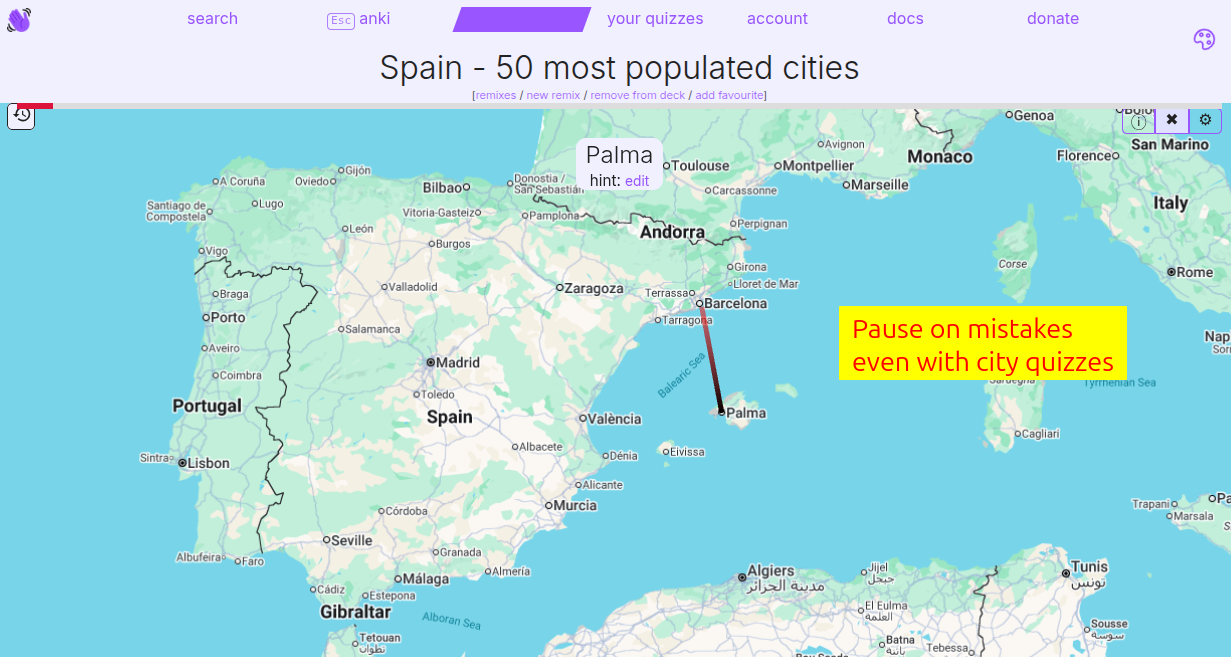
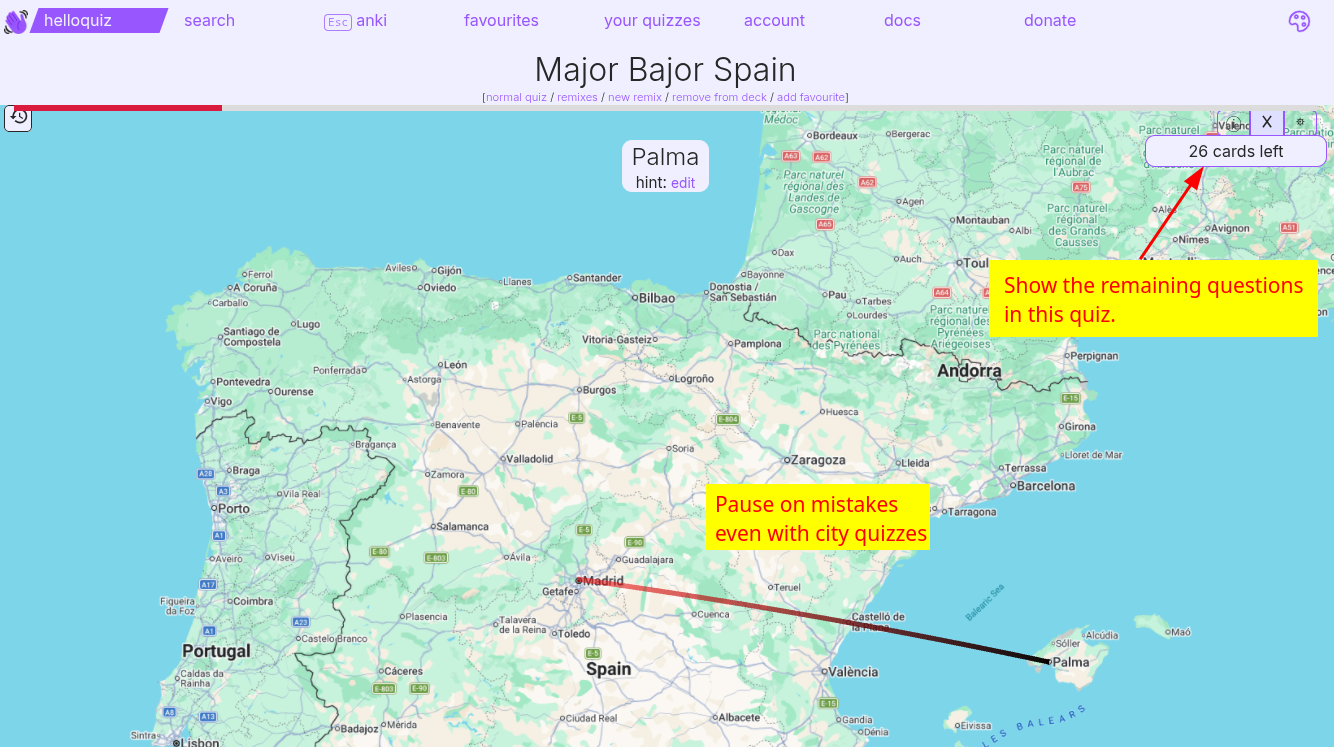
readme: combine screenshots

diff --git a/README.md b/README.md
@@ -40,21 +40,13 @@ The countdown bar across the top, and the *Anki Turbo Config* options in the qui
 
 ![The countdown timer bar and the Anki Turbo Config settings](screenshots/config-timer.png)
 
-Keyboard-shortcut badges and labels on the buttons:
+Keyboard-shortcut badges and labels on the buttons, including the end-of-quiz *next quiz* (next in line) and *most overdue quiz* buttons:
 
-![Keyboard shortcut hints on the quiz buttons](screenshots/keyboard-shortcuts.png)
+![Keyboard shortcut hints and the next quiz button on the end-of-quiz screen](screenshots/keyboard-shortcuts.png)
 
-The review pause after a wrong answer, so you can study the map you just missed — it works even on city quizzes:
+The review pause after a wrong answer, so you can study the map you just missed — it works even on city quizzes — and the number of cards still left in the quiz:
 
-![The review pause after a mistake](screenshots/pause.png)
-
-The number of cards still left in the quiz, shown while the quiz's popover is closed:
-
-![The cards-left box below the compact settings tabs](screenshots/cards-left.png)
-
-The end-of-quiz buttons, with *next quiz* walking the quiz list in order and *most overdue quiz* jumping back to the top:
-
-![The end-of-quiz buttons with next quiz and most overdue quiz](screenshots/next-quiz.png)
+![The review pause after a mistake and the cards-left box](screenshots/pause.png)
 
 ## Changelog
 
